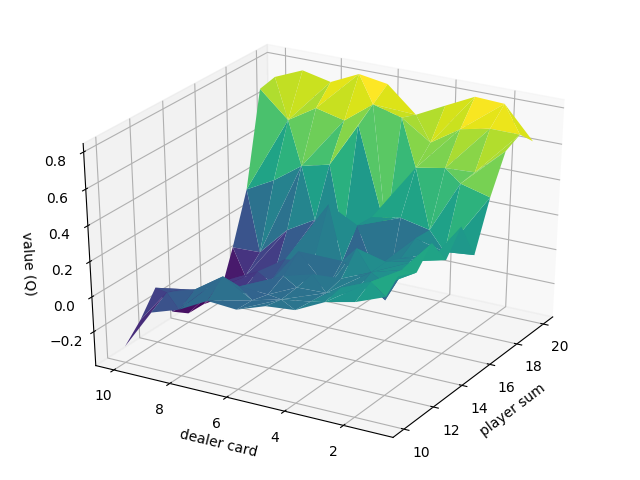
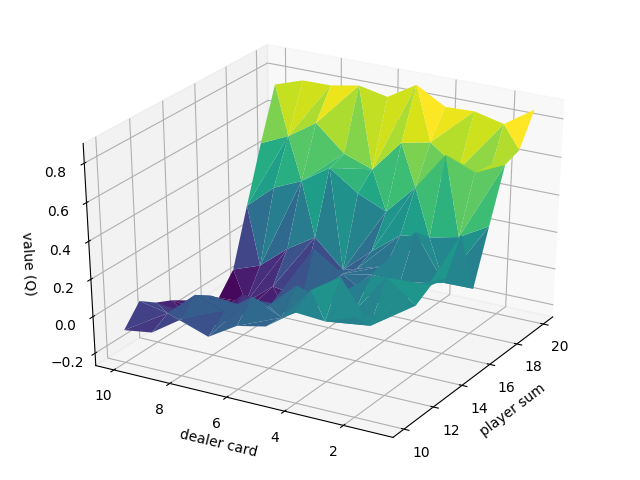
Updating graphs and readme

diff --git a/solutions.py b/solutions.py
@@ -85,17 +85,18 @@ def run_sarsa(num_episodes, n_zero, mc_value_table, save_plots=True):
 
 def main():
 	# parameters
-	n_learn_ep = 10 ** 4
+	number_of_monte_carlo_episodes = 10 ** 7
+	number_of_sarsa_episodes = 10 ** 6
 	n0 = 100
 
-	save_plots_to_file = False
+	save_plots_to_file = True
 
 	# task 2 - Monte-Carlo control in Easy21
-	run_monte_carlo(n_learn_ep, n0, save_plots=save_plots_to_file)
+	run_monte_carlo(number_of_monte_carlo_episodes, n0, save_plots=save_plots_to_file)
 
 	# task 3 - TD Learning in Easy21
 	mc_val_tab = pickle.load(open('dumps/mc_table.pkl', 'rb'), encoding=sys.stdout.encoding)
-	run_sarsa(n_learn_ep, n0, mc_val_tab)
+	run_sarsa(number_of_sarsa_episodes, n0, mc_val_tab)
 
 
 if __name__ == '__main__':

diff --git a/README.md b/README.md
@@ -1,20 +1,24 @@
-#Easy21
+# Easy21
 This repository contains solutions to the [programming assignment](http://www0.cs.ucl.ac.uk/staff/d.silver/web/Teaching_files/Easy21-Johannes.pdf) from [David Silver's reinforcement learning course](https://www.youtube.com/watch?v=2pWv7GOvuf0&list=PLqYmG7hTraZDM-OYHWgPebj2MfCFzFObQ).
 
 The main task was to implement two reinforcement learning algorithms - Monte-Carlo Control and Sarsa(λ) (a verson of temporal difference learning, also known as TD learning) - and an environment - Easy21 - a simplified version of the card game Black Jack (or 21) and then apply those algorithms to solving the environment.
 
-All presented below solutions have been implemented using Python 3. All solutions can be executed one after another by executing:
+All presented below solutions have been implemented using Python 3. All solutions can be executed one after another by running:
+
 `python3 solutions.py`
 
-##Monte-Carlo Control in Easy21
+## Monte-Carlo Control in Easy21
 Monte-Carlo value function is presented below. One million of episodes has been evaluated.
+
 ![](https://raw.githubusercontent.com/szymonWojdat/Easy21/master/graphs/mc_value_function.png)
 
-##TD Learning in Easy21
+## TD Learning in Easy21
 The graph below presents changes of mean-squared error over time for two values of lambda: 0 and 1. A data point was captured each 1000 episodes, over the course of one million episodes.
+
 ![](https://raw.githubusercontent.com/szymonWojdat/Easy21/master/graphs/sarsa_mse_over_time.png)
 
 The graph below presents changes of mean-squared error for different values of lambda: 0, 0.1, 0.2, ..., 1. For each value, 1000 episodes have been evaluated.
+
 ![](https://raw.githubusercontent.com/szymonWojdat/Easy21/master/graphs/sarsa_mse_over_lambda.png)
 
 ## Linear Function Approximation in Easy21
